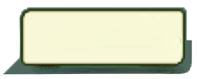
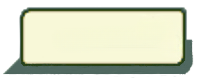
[feat] - 전투결과창구현/이미지수정

diff --git a/cuketmon/src/Battle/Battle.js b/cuketmon/src/Battle/Battle.js
@@ -20,80 +20,87 @@ function Battle() {
   const [isEnemyHit, setIsEnemyHit] = useState(false);
   const [myTurn, setMyTurn] = useState(false);
   const [ws, setWs] = useState(null);
+  const [isBattleEnded, setIsBattleEnded] = useState(false);
+  const [winner, setWinner] = useState(null);
 
   const animationMap = {
     fire: {
-      high: ['/BattlePage/animation/fire/highDamage1.png'],
-      normal: ['/BattlePage/animation/fire/normalDamage1.png'],
+      high: ['/BattlePage/Animation/Fire/highDamage1.png'],
+      normal: ['/BattlePage/Animation/Fire/normalDamage1.png'],
     },
     water: {
-      high: ['/BattlePage/animation/water/highDamage1.png'],
-      normal: ['/BattlePage/animation/water/normalDamage1.png'],
+      high: ['/BattlePage/Animation/Water/highDamage1.png'],
+      normal: ['/BattlePage/Animation/Water/normalDamage1.png'],
     },
     normal: {
-      high: ['/BattlePage/animation/normal/highDamage1.png'],
-      normal: ['/BattlePage/animation/normal/normalDamage1.png'],
+      high: ['/BattlePage/Animation/Normal/highDamage1.png'],
+      normal: ['/BattlePage/Animation/Normal/normalDamage1.png'],
     },
     grass: {
-      high: ['/BattlePage/animation/grass/highDamage1.png'],
-      normal: ['/BattlePage/animation/grass/normalDamage1.png'],
+      high: ['/BattlePage/Animation/Grass/highDamage1.png'],
+      normal: ['/BattlePage/Animation/Grass/normalDamage1.png'],
     },
     electric: {
-      high: ['/BattlePage/animation/electric/highDamage1.png'],
-      normal: ['/BattlePage/animation/electric/normalDamage1.png'],
+      high: ['/BattlePage/Animation/Electric/highDamage1.png'],
+      normal: ['/BattlePage/Animation/Electric/normalDamage1.png'],
     },
     psychic: {
-      high: ['/BattlePage/animation/psychic/highDamage1.png'],
-      normal: ['/BattlePage/animation/psychic/normalDamage1.png'],
+      high: ['/BattlePage/Animation/Psychic/highDamage1.png'],
+      normal: ['/BattlePage/Animation/Psychic/normalDamage1.png'],
     },
     rock: {
-      high: ['/BattlePage/animation/rock/highDamage1.png'],
-      normal: ['/BattlePage/animation/rock/normalDamage1.png'],
+      high: ['/BattlePage/Animation/Rock/highDamage1.png'],
+      normal: ['/BattlePage/Animation/Rock/normalDamage1.png'],
     },
     iron: {
-      high: ['/BattlePage/animation/iron/highDamage1.png'],
-      normal: ['/BattlePage/animation/iron/normalDamage1.png'],
+      high: ['/BattlePage/Animation/Iron/highDamage1.png'],
+      normal: ['/BattlePage/Animation/Iron/normalDamage1.png'],
     },
     ice: {
-      high: ['/BattlePage/animation/ice/highDamage1.png'],
-      normal: ['/BattlePage/animation/ice/normalDamage1.png'],
+      high: ['/BattlePage/Animation/Ice/highDamage1.png'],
+      normal: ['/BattlePage/Animation/Ice/normalDamage1.png'],
     },
     dragon: {
-      high: ['/BattlePage/animation/dragon/highDamage1.png'],
-      normal: ['/BattlePage/animation/dragon/normalDamage1.png'],
+      high: ['/BattlePage/Animation/Dragon/highDamage1.png'],
+      normal: ['/BattlePage/Animation/Dragon/normalDamage1.png'],
     },
     evil: {
-      high: ['/BattlePage/animation/evil/highDamage1.png'],
-      normal: ['/BattlePage/animation/evil/normalDamage1.png'],
+      high: ['/BattlePage/Animation/Evil/highDamage1.png'],
+      normal: ['/BattlePage/Animation/Evil/normalDamage1.png'],
     },
     fairy: {
-      high: ['/BattlePage/animation/fairy/highDamage1.png'],
-      normal: ['/BattlePage/animation/fairy/normalDamage1.png'],
+      high: ['/BattlePage/Animation/Fairy/highDamage1.png'],
+      normal: ['/BattlePage/Animation/Fairy/normalDamage1.png'],
     },
     poison: {
-      high: ['/BattlePage/animation/poison/highDamage1.png'],
-      normal: ['/BattlePage/animation/poison/normalDamage1.png'],
+      high: ['/BattlePage/Animation/Poison/highDamage1.png'],
+      normal: ['/BattlePage/Animation/Poison/normalDamage1.png'],
     },
     bug: {
-      high: ['/BattlePage/animation/bug/highDamage1.png'],
-      normal: ['/BattlePage/animation/bug/normalDamage1.png'],
+      high: ['/BattlePage/Animation/Bug/highDamage1.png'],
+      normal: ['/BattlePage/Animation/Bug/normalDamage1.png'],
     },
     ground: {
-      high: ['/BattlePage/animation/ground/highDamage1.png'],
-      normal: ['/BattlePage/animation/ground/normalDamage1.png'],
+      high: ['/BattlePage/Animation/Ground/highDamage1.png'],
+      normal: ['/BattlePage/Animation/Ground/normalDamage1.png'],
     },
     fly: {
-      high: ['/BattlePage/animation/fly/highDamage1.png'],
-      normal: ['/BattlePage/animation/fly/normalDamage1.png'],
+      high: ['/BattlePage/Animation/Fly/highDamage1.png'],
+      normal: ['/BattlePage/Animation/Fly/normalDamage1.png'],
     },
     fighter: {
-      high: ['/BattlePage/animation/fighter/highDamage1.png'],
-      normal: ['/BattlePage/animation/fighter/normalDamage1.png'],
+      high: ['/BattlePage/Animation/Fighter/highDamage1.png'],
+      normal: ['/BattlePage/Animation/Fighter/normalDamage1.png'],
     },
     ghost: {
-      high: ['/BattlePage/animation/ghost/highDamage1.png'],
-      normal: ['/BattlePage/animation/ghost/normalDamage1.png'],
+      high: ['/BattlePage/Animation/Ghost/highDamage1.png'],
+      normal: ['/BattlePage/Animation/Ghost/normalDamage1.png'],
     },
+  };
+
+  const getHpColor = (hp) => {
+    const hue = hp * 1.2; // 120 (초록)에서 0 (빨강)으로 점진적 변화
+    return `hsl(${hue}, 100%, 50%)`;
   };
 
   useEffect(() => {
@@ -155,8 +162,14 @@ function Battle() {
         setBattleMessage('');
         setSelectedTech(null);
         setCurrentAnimation(null);
-        setMyTurn(false);
-        setEnemyCuketmonHP((prev) => Math.max(prev - damage, 0));
+        /*setMyTurn(false);*/
+        const newEnemyHP = Math.max(enemyCuketmonHP - damage, 0);
+        setEnemyCuketmonHP(newEnemyHP);
+
+        if (newEnemyHP <= 0) {
+          setIsBattleEnded(true);
+          setWinner('player');
+        }
 
         setTimeout(() => {
           setIsEnemyHit(false);
@@ -173,6 +186,15 @@ function Battle() {
       </div>
     );
   }
+  
+  if (isBattleEnded) {
+    return (
+      <div className="resultScreen">
+        <h1>{winner === 'player' ? '승리!' : '패배...'}</h1>
+        <button onClick={() => window.location.reload()}>아이겼다</button>
+      </div>
+    );
+  }
 
   return (
     <div className="Battle">
@@ -180,12 +202,13 @@ function Battle() {
         <div className="battleContainer">
           <div className="mySection">
             <div className="hpBackground">
-              <img src="/BattlePage/hpBg.png" className="myHpBackground" alt="체력바배경" />
+              <p>커켓몬1</p>
               <img src="/BattlePage/hpBar.png" className="myHpImage" alt="체력바" />
               <div className="myHpBar">
-              <div className="myHpFill" style={{ width: `${myCuketmonHP}%` }}></div>
+              <div className="myHpFill" style={{ width: `${myCuketmonHP}%`, backgroundcolor: getHpColor(myCuketmonHP) }}></div>
             </div>
             </div>
+            
             
             <div className="cuketmon">
               <img
@@ -199,14 +222,13 @@ function Battle() {
 
           <div className="enemySection">
             <div className="hpBackground">
-              <img src="/BattlePage/hpBg.png" className="enemyHpBackground" alt="체력바배경" />
+              <p>커켓몬2</p>
               <img src="/BattlePage/hpBar.png" className="enemyHpImage" alt="체력바" />
               <div className="enemyHpBar">
-              <div className="enemyHpFill" style={{ width: `${enemyCuketmonHP}%` }}>
-              
-              </div>
+              <div className="enemyHpFill" style={{ width: `${enemyCuketmonHP}%`, backgroundcolor: getHpColor(enemyCuketmonHP) }}></div>
             </div>
             </div>
+            
             
             <div className="cuketmon">
               <img

diff --git a/cuketmon/src/Battle/Battle.css b/cuketmon/src/Battle/Battle.css
@@ -33,7 +33,6 @@ html, body {
   width: 100%;
   height: 60%;
   padding: 2vw;
-  gap: 5vw;
   position: relative;
 }
 
@@ -72,15 +71,14 @@ html, body {
 }
 
 .myHpBar, .enemyHpBar {
-  width: 27%;
-  height: 18px;
+  top: 50%;
+  left: 31.5%;
+  width: 40%;
+  height: 15px;
   position: absolute;
-  top: 14.5%;
-  left: 42%;
 }
 
 .myHpFill, .enemyHpFill {
-  width: 75%;
   height: 100%;
   background-color: hwb(141 24% 0%);
   border: 3.7px solid #4c6458;
@@ -88,20 +86,30 @@ html, body {
   border-radius: 9px;
 }
 
-.myHpBackground, .enemyHpBackground {
+.hpBackground{
   position: relative;
-  right: 30%;
-  width: 170%;
-  height: auto;
+  top: 0%;
+  width: 90%;
+  height: 90%;
+  background-image: url('/public/BattlePage/hpBg.png');
+  background-size: contain;
+  background-position: center;
+  background-repeat: no-repeat;
+}
+
+.hpBackground > p {
+  position: absolute;
+  top: 10%;
+  left: 25%;
+  font-size: 1.5vw;
 }
 
 .myHpImage, .enemyHpImage {
   position: absolute;
-  top: 0%;
-  right:33%;
-  width: 45%;
-  height: auto;
-  z-index: 0;
+  top: 50%;
+  left: 25%;
+  width: 50px;
+  
 }
 
 .battleAnimationOverlay {
@@ -193,12 +201,12 @@ html, body {
 
 .ppInfo {
   position: absolute;
-  right: 12%; 
+  right: 8%; 
   top: 29%;
   color: black;
   padding: 0.5% 1%;
   border-radius: 5px;
-  font-size: 2.5rem;
+  font-size: 3vw;
 }
 
 .turnInfo {
@@ -212,9 +220,9 @@ html, body {
 
 .cuketmonType {
   position: absolute;
-  right: 10%;
+  right: 5%;
   bottom: 28%;
-  font-size: 2.5rem;
+  font-size: 3vw;
 }
 
 .battleMessage {
@@ -246,6 +254,20 @@ html, body {
 @keyframes spin {
   0% { transform: rotate(0deg); }
   100% { transform: rotate(360deg); }
+}
+
+.resultScreen {
+  background-image: url('/public/BattlePage/background.png');
+  background-size: cover;
+  background-position: center;
+  background-repeat: no-repeat;
+  display: flex;
+  flex-direction: column;
+  align-items: center;
+  justify-content: center;
+  height: 100vh;
+  color: black;
+  font-size: 2rem;
 }
 
 
